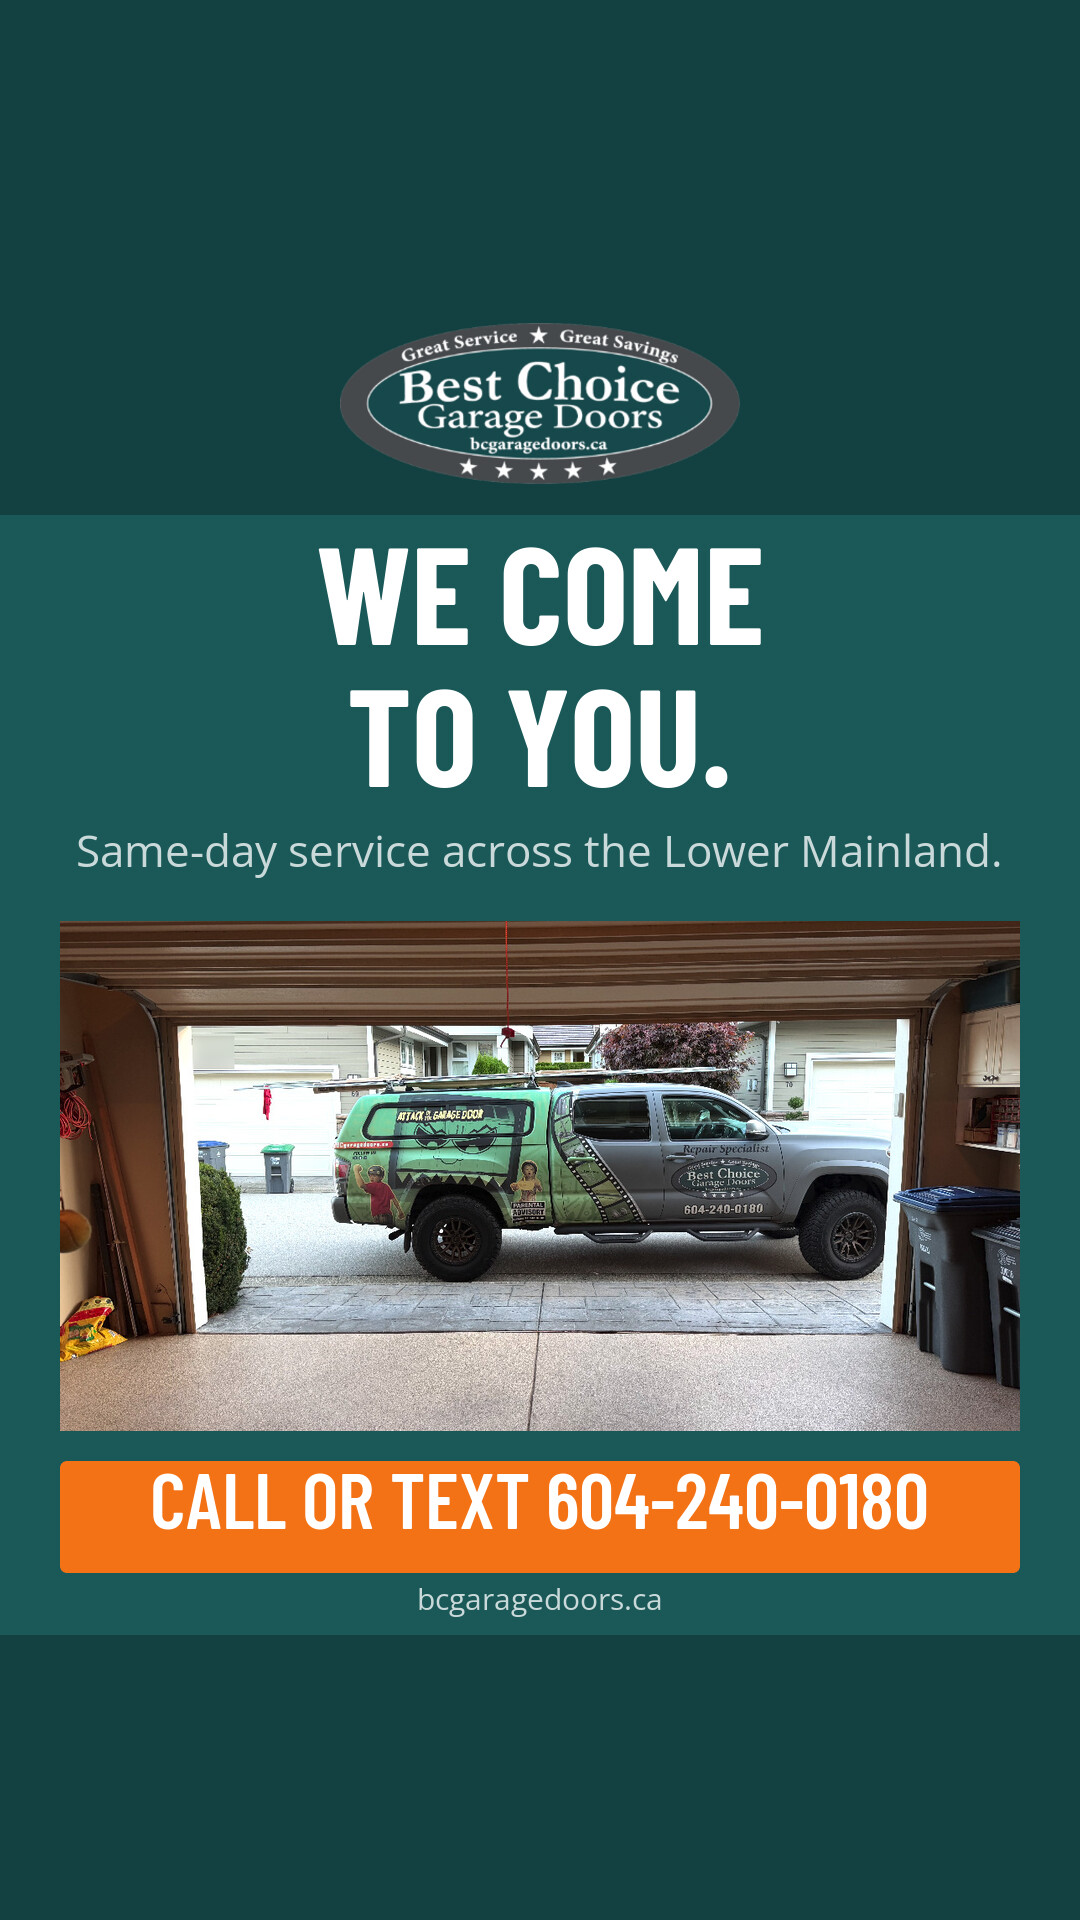
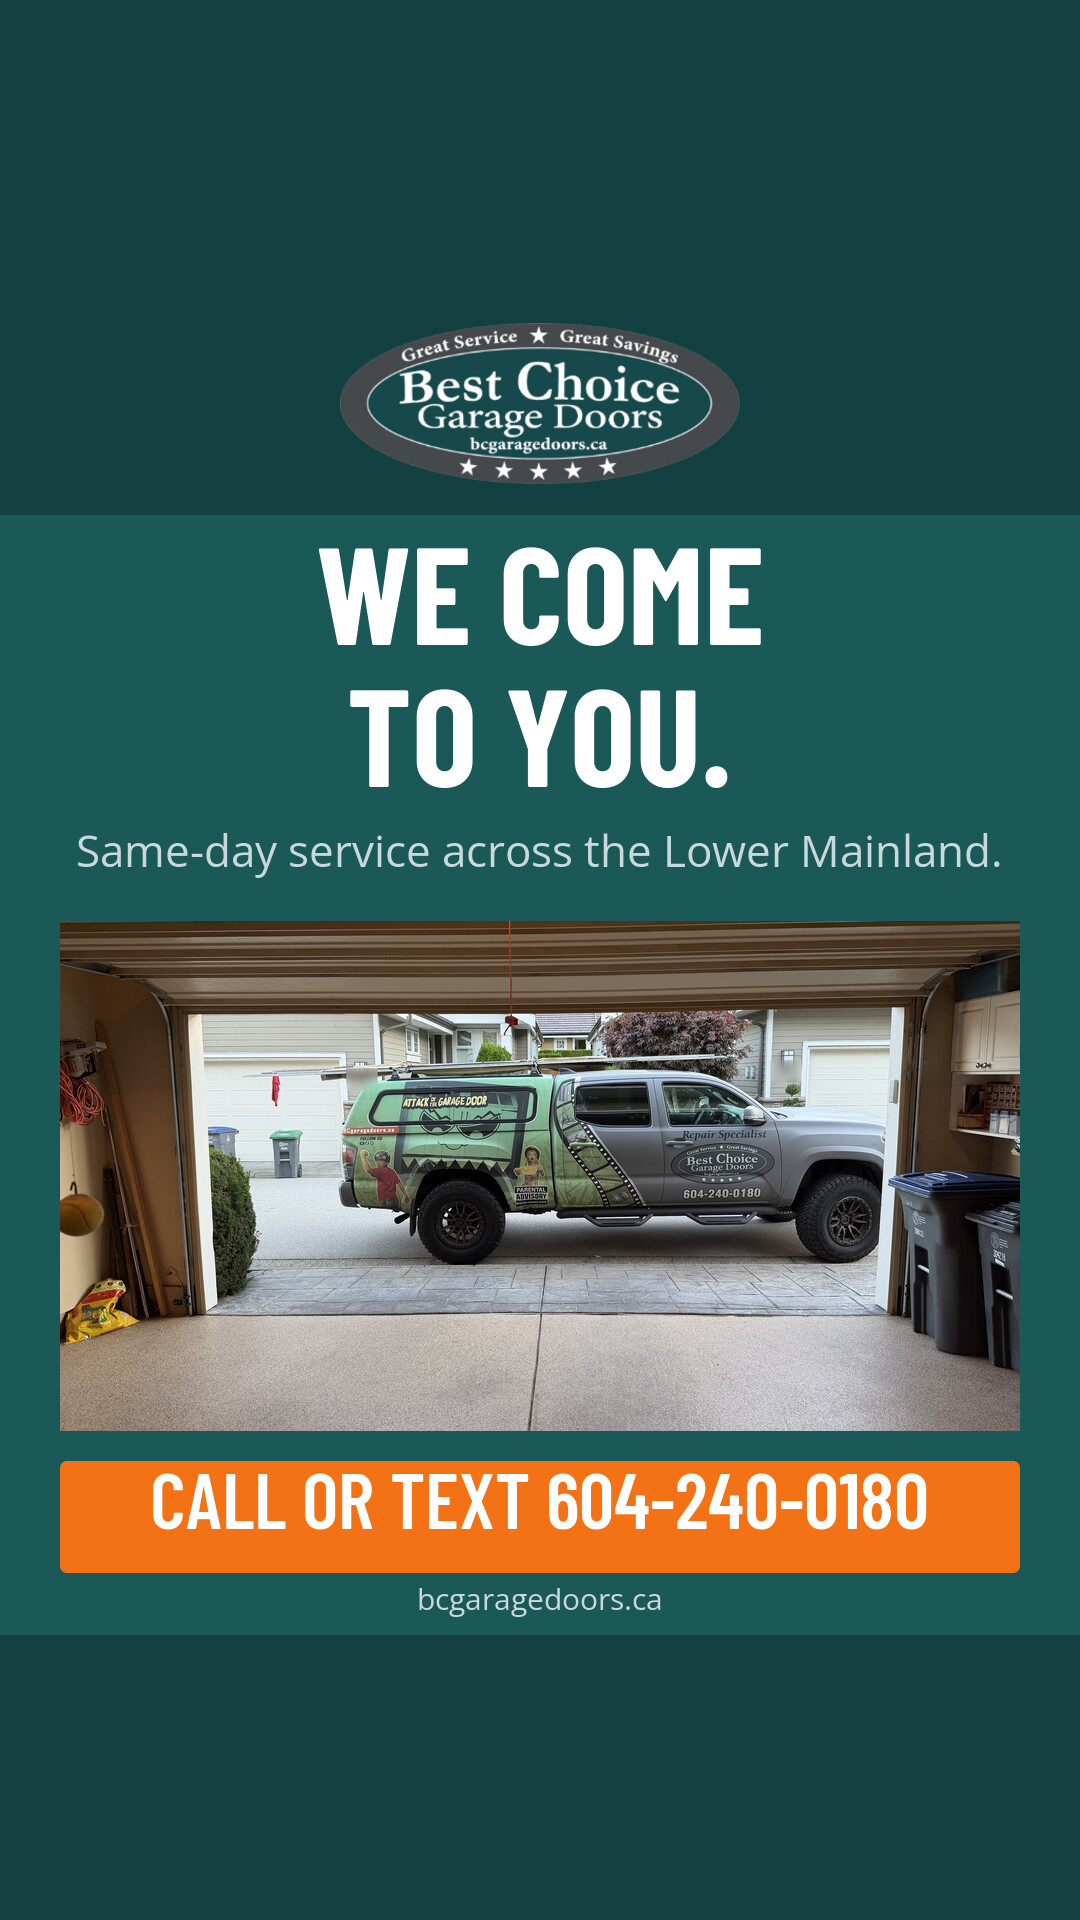
marketing: full-res garage photo, house numbers blurred, metadata stripped
Claude-Session: https://claude.ai/code/session_0165Mau5yUP12mqZosESkrCs

Changed region(s): [[0.0306, 0.4688, 0.9472, 0.75]]

diff --git a/marketing/posts/build.py b/marketing/posts/build.py
@@ -39,7 +39,7 @@ POSTS = {
  'review-pamela': dict(head='“OLD SCHOOL\nWORK ETHIC.”', sub='Called on a Saturday, there within hours.', stars=True,
                    card='Ben just finished fixing our garage door. We called on a Saturday and he arrived within a couple of hours. Great guy, wonderful attitude and old school work ethic! Highly recommend!', who='Pamela Sunshine, Google review'),
  'we-come-to-you': dict(head='WE COME\nTO YOU.', sub='Same-day service across the Lower Mainland.',
-   photo='site/truck-from-garage.jpg', crop=(1145, 608, 0, 30)),
+   photo='site/truck-from-garage.jpg', crop=(2576, 1370, 0, 52)),
  'svc-cable': dict(head='CABLES LAST\n8 TO 15 YEARS.', sub='In the Lower Mainland they can wear faster.',
    card='Steel cables stretch, fray and weaken, often with no warning until they snap. Past 7 to 10 years, have them inspected.', who='Cable replacement'),
  'svc-rollers': dict(head='YOUR DOOR RIDES\nON ITS ROLLERS.', sub='Nylon rollers are strong and quiet.',
